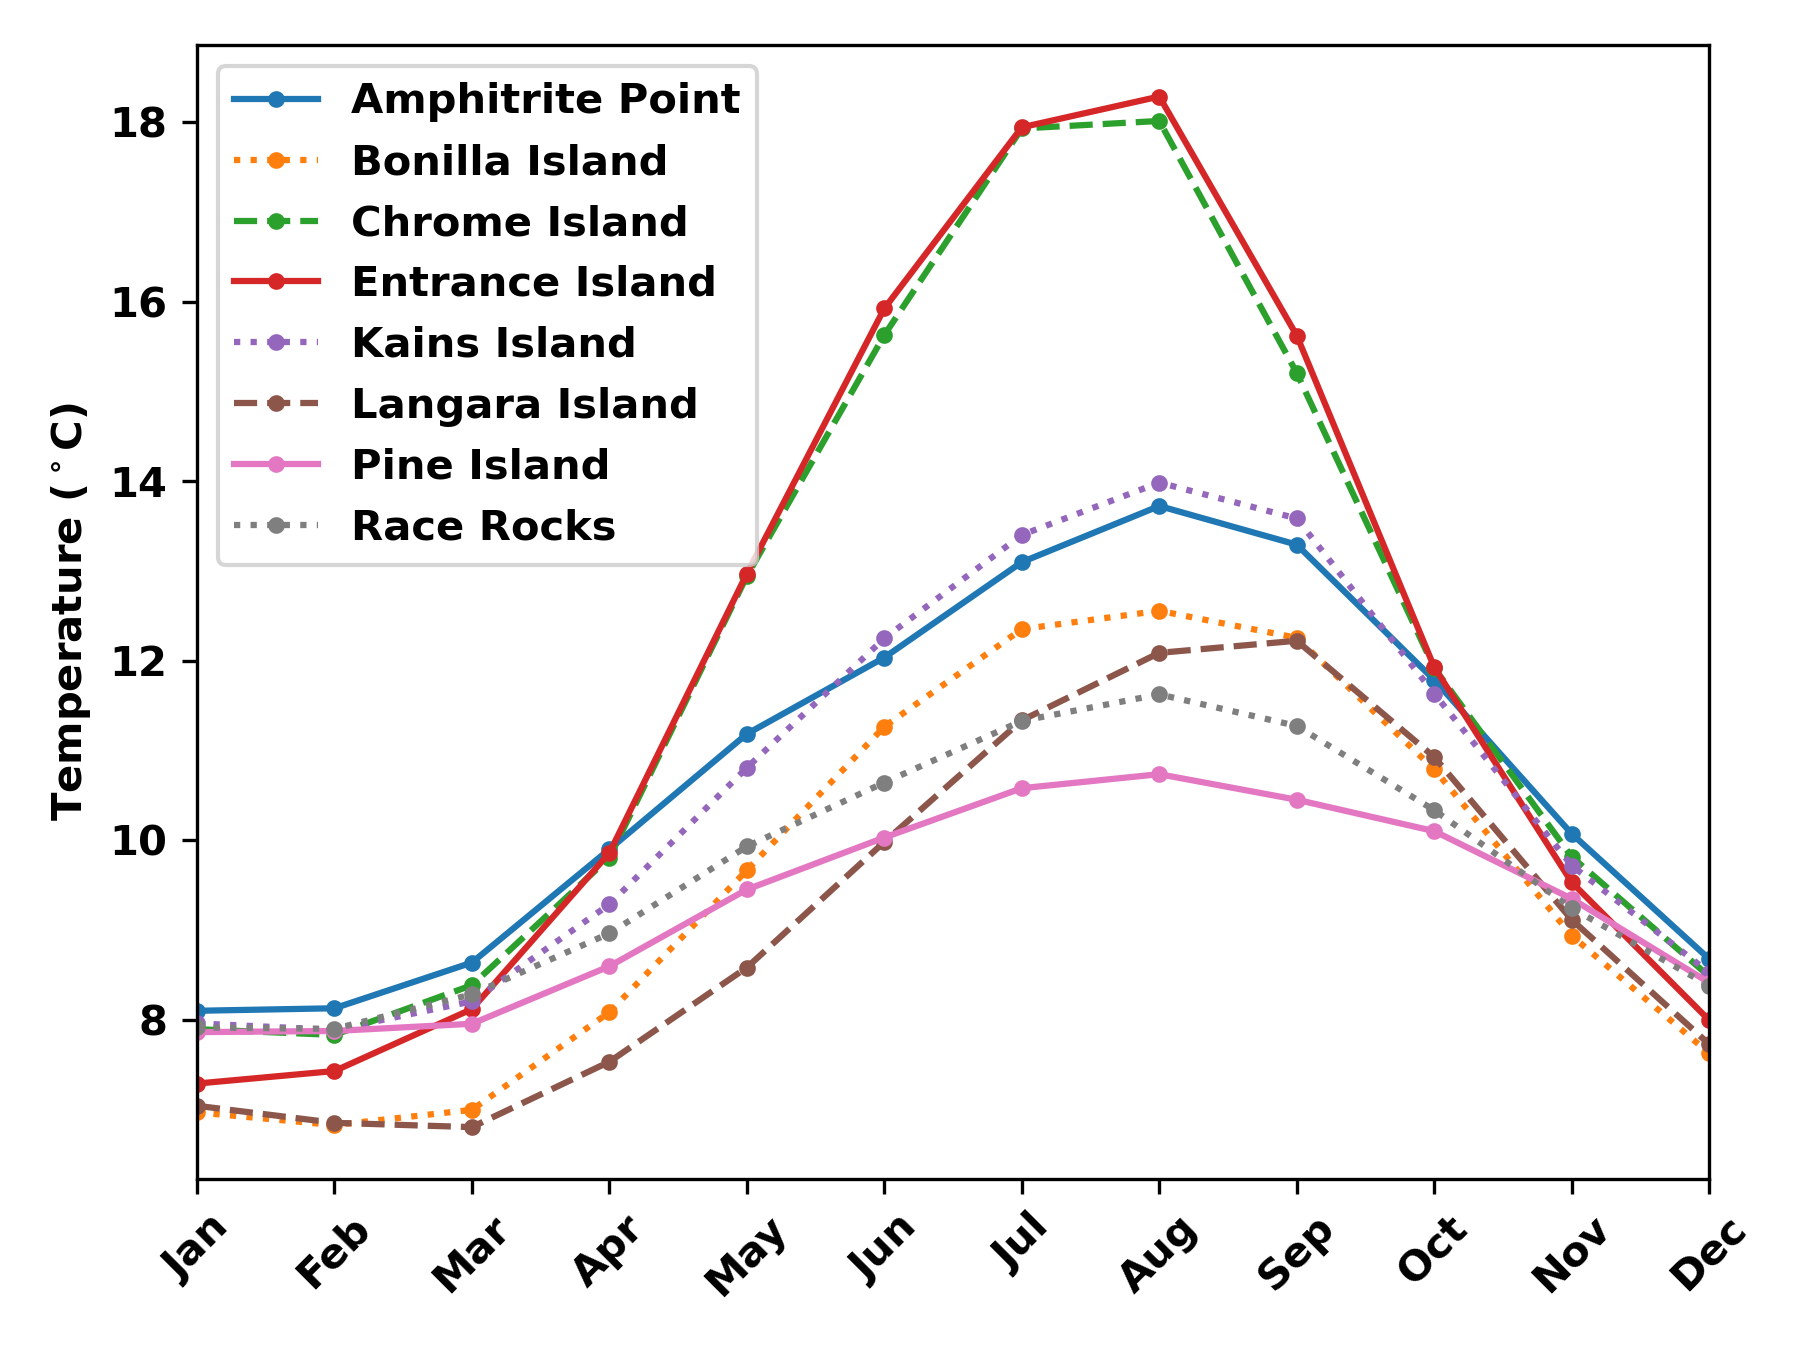
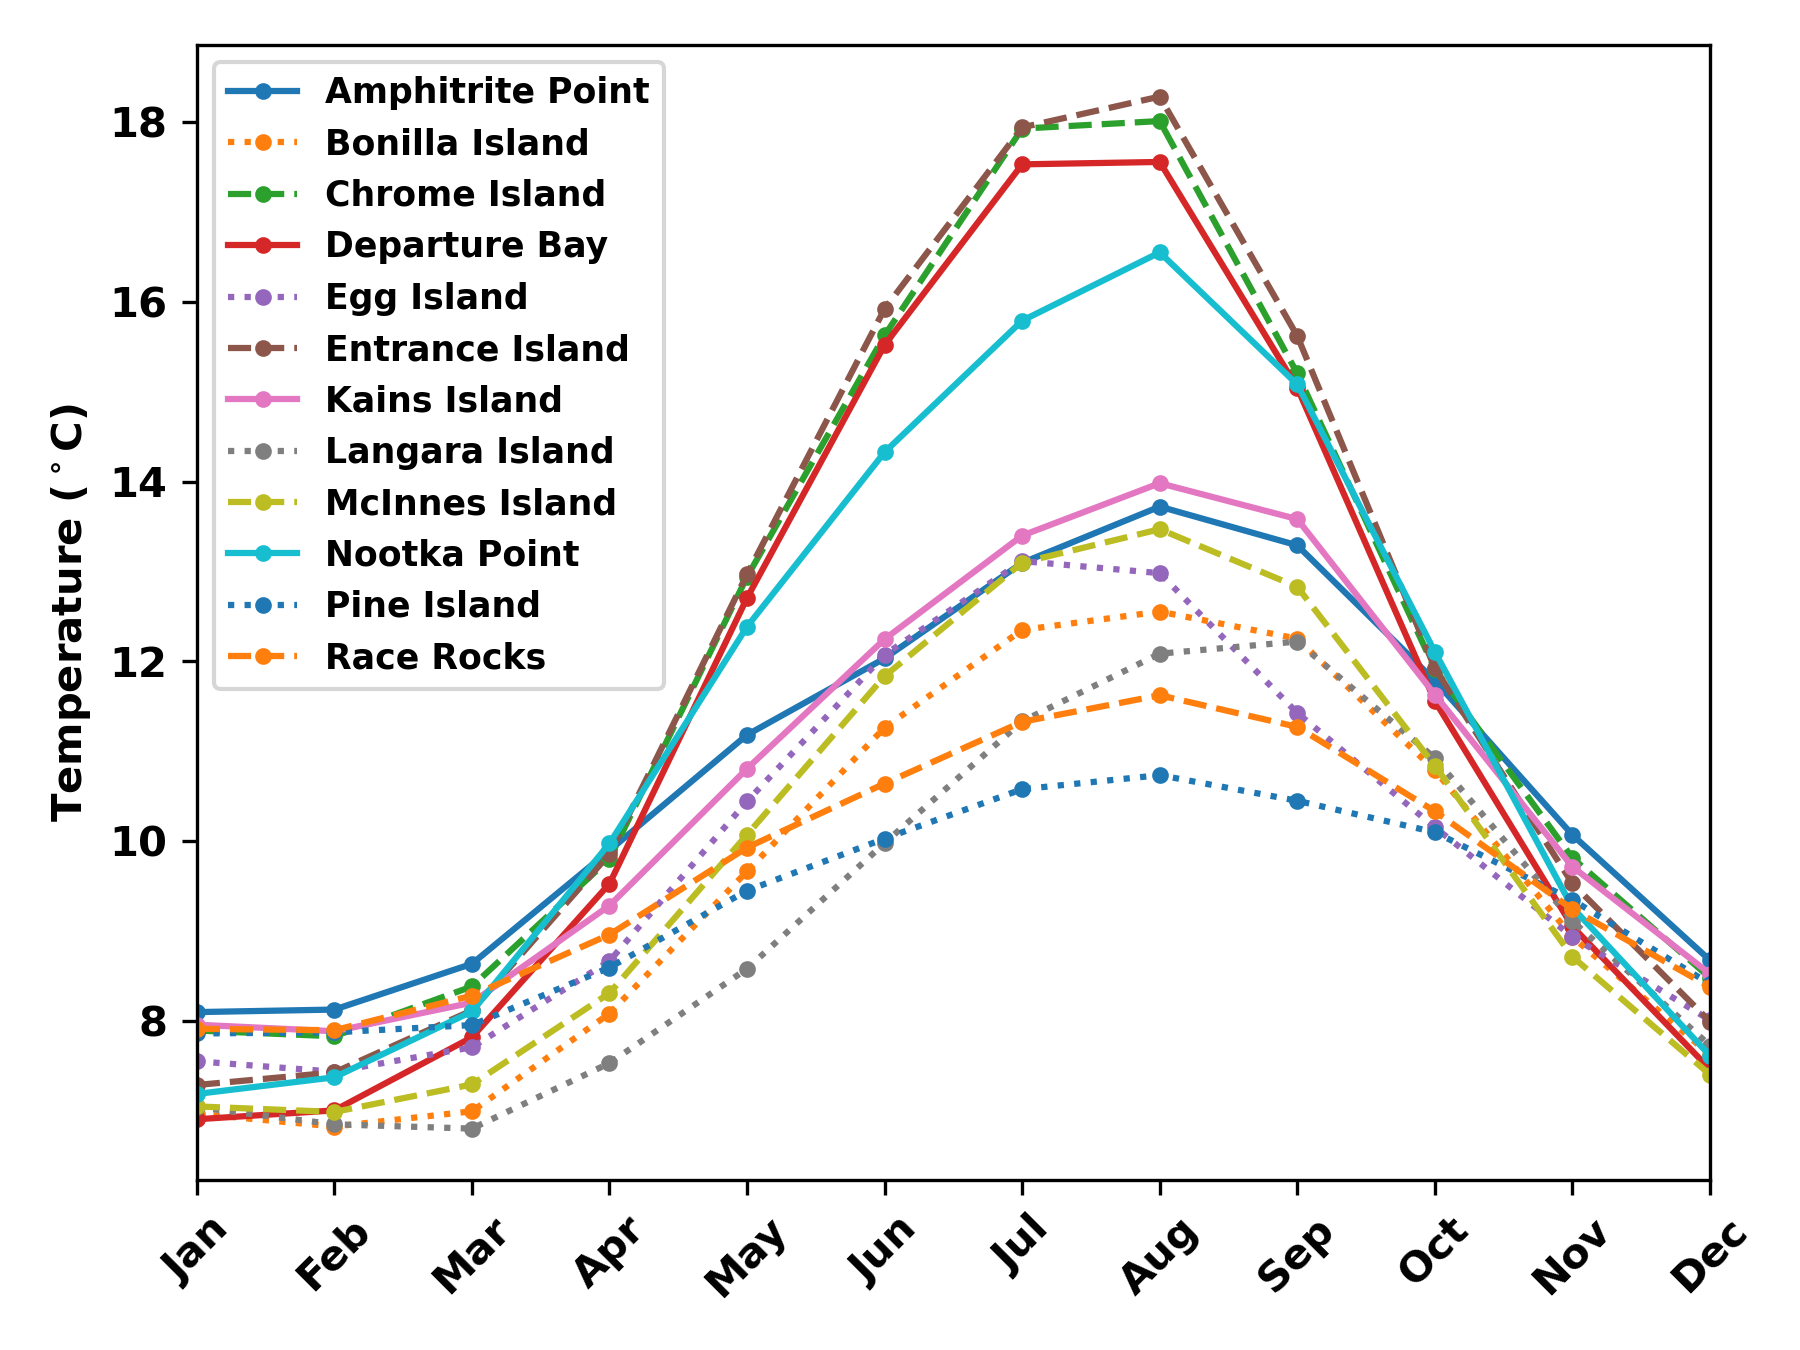
update climatology plot

diff --git a/scripts/plot_lightstation_temperature.py b/scripts/plot_lightstation_temperature.py
@@ -492,7 +492,7 @@ def plot_climatology(clim_file, output_dir):
     month_numbers = np.arange(1, 12 + 1)
 
     fig, ax = plt.subplots(figsize=[6, 4.5])  # width, height
-    line_styles = ['-', ':', '--'] * 3
+    line_styles = ['-', ':', '--'] * 4
     # line_styles.sort()
     for i in range(len(clim_df)):
         station = clim_df.index[i]
@@ -500,7 +500,7 @@ def plot_climatology(clim_file, output_dir):
         ax.plot(month_numbers, clim_df.loc[station, :],
                 label=station_name, marker='.', linestyle=line_styles[i])
 
-    plt.legend()
+    plt.legend(fontsize='small', frameon=True)
     ax.set_xlim((min(month_numbers), max(month_numbers)))
     ax.set_xticks(month_numbers, labels=MONTH_ABBREV, rotation=45)
     ax.set_ylabel('Temperature ($^\circ$C)')
@@ -1080,6 +1080,19 @@ def run_plot(
         daily_stats: bool = False,
         availability: bool = False
 ):
+    """
+    Run plotting functions
+    :param monthly_anom: Plot monthly anomalies with least-squares trend
+    and Monte Carlo 95% confidence interval
+    :param clim: Plot monthly climatologies
+    :param daily_anom: plot daily anomalies
+    :param daily_anom_window: the size of window to use for plotting daily
+    anomalies, if smoothing them
+    :param daily_stats: plot statistics of daily data
+    :param availability: plot data availability (monthly and annual observation
+    counts)
+    :return:
+    """
     old_dir = os.getcwd()
     new_dir = os.path.dirname(old_dir)
     os.chdir(new_dir)
